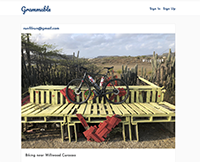
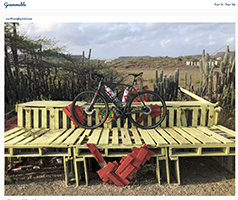
Updates picture for Grammable application.

diff --git a/index.html b/index.html
@@ -316,15 +316,19 @@
             <!-- Grammable -->
             <div class="portfolio-item">
               <div class="portfolio-item-title">Grammable</div>
+              <div class="repo-link-container">
+                <a href="https://github.com/filg68/grammable" ><i class="repo-link fab fa-github"></i></a>
+              </div>
               <p class="portfolio-item-description">Rails application based on Instagram.  Provides the ability to add
                 'Grams' and comment on other users 'Grams.  App was built as part of Bootcamp work for one of the assignments.
                 Hosted on Heroku.
             </div>
 
             <figure class="portfolio-figure no-border">
-              <img src="assets/eTeach.png" alt="eTeach Website">
+              <a href="https://grammable-gamba.herokuapp.com/">
+                <img src="assets/grammable.png" alt="Grammable Website">
+              </a>
             </figure>
-
 
           </div>
 
